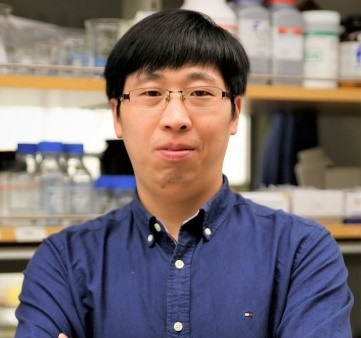
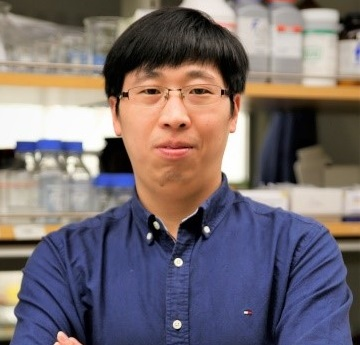
20230703 update

diff --git a/author/qing-hui-guo/index.html b/author/qing-hui-guo/index.html
@@ -304,8 +304,8 @@
   <meta property="og:site_name" content="Home" />
   <meta property="og:url" content="https://example.com/author/qing-hui-guo/" />
   <meta property="og:title" content="Qing-Hui Guo | Home" />
-  <meta property="og:description" content="A highly-customizable Hugo research group theme powered by Wowchemy website builder." /><meta property="og:image" content="https://example.com/author/qing-hui-guo/avatar_hu9106dc2a8fcffa857f9d01b7274cbabd_40867_270x270_fill_q75_lanczos_center.jpg" />
-    <meta property="twitter:image" content="https://example.com/author/qing-hui-guo/avatar_hu9106dc2a8fcffa857f9d01b7274cbabd_40867_270x270_fill_q75_lanczos_center.jpg" /><meta property="og:locale" content="en-us" />
+  <meta property="og:description" content="A highly-customizable Hugo research group theme powered by Wowchemy website builder." /><meta property="og:image" content="https://example.com/author/qing-hui-guo/avatar_hud5ce17e4f971b624ce896b28651bfa33_41823_270x270_fill_q75_lanczos_center.jpg" />
+    <meta property="twitter:image" content="https://example.com/author/qing-hui-guo/avatar_hud5ce17e4f971b624ce896b28651bfa33_41823_270x270_fill_q75_lanczos_center.jpg" /><meta property="og:locale" content="en-us" />
   
     
   
@@ -750,7 +750,7 @@
       
       <img class="avatar avatar-circle"
            width="270" height="270"
-           src="/author/qing-hui-guo/avatar_hu9106dc2a8fcffa857f9d01b7274cbabd_40867_270x270_fill_q75_lanczos_center.jpg" alt="Qing-Hui Guo">
+           src="/author/qing-hui-guo/avatar_hud5ce17e4f971b624ce896b28651bfa33_41823_270x270_fill_q75_lanczos_center.jpg" alt="Qing-Hui Guo">
       
 
       <div class="portrait-title">

diff --git a/members/index.html b/members/index.html
@@ -2528,7 +2528,7 @@
     
     
       
-      <a href="/author/qing-hui-guo/"><img width="270" height="270" loading="lazy" class="avatar avatar-circle" src="/author/qing-hui-guo/avatar_hu9106dc2a8fcffa857f9d01b7274cbabd_40867_270x270_fill_q75_lanczos_center.jpg" alt="Avatar"></a>
+      <a href="/author/qing-hui-guo/"><img width="270" height="270" loading="lazy" class="avatar avatar-circle" src="/author/qing-hui-guo/avatar_hud5ce17e4f971b624ce896b28651bfa33_41823_270x270_fill_q75_lanczos_center.jpg" alt="Avatar"></a>
     
 
     <div class="portrait-title">
